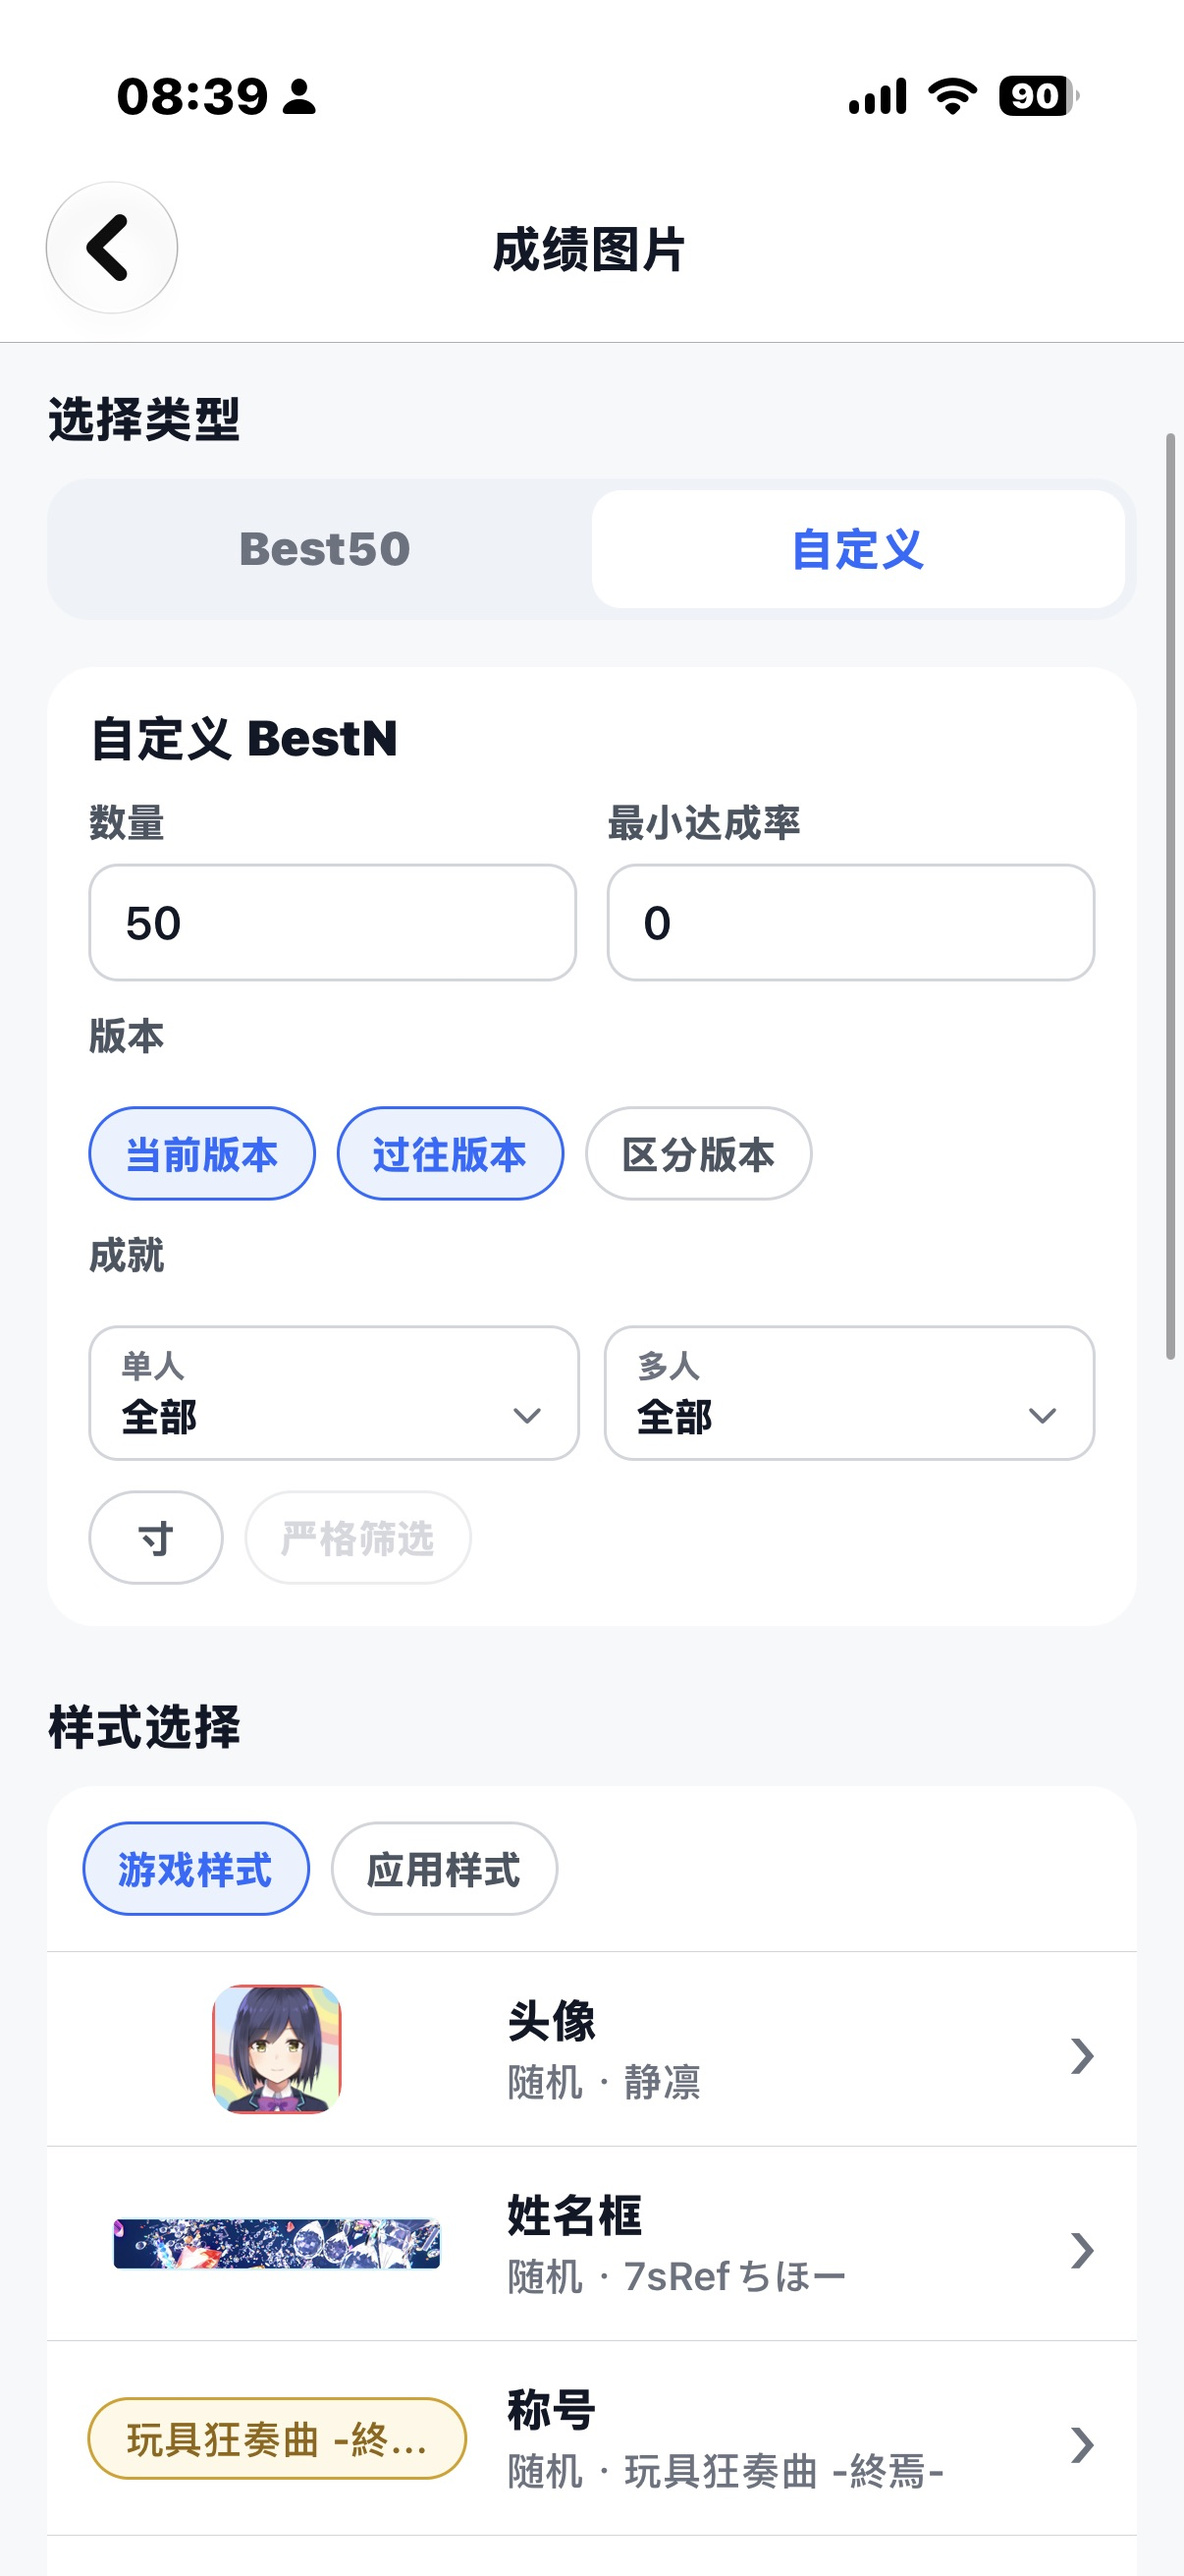
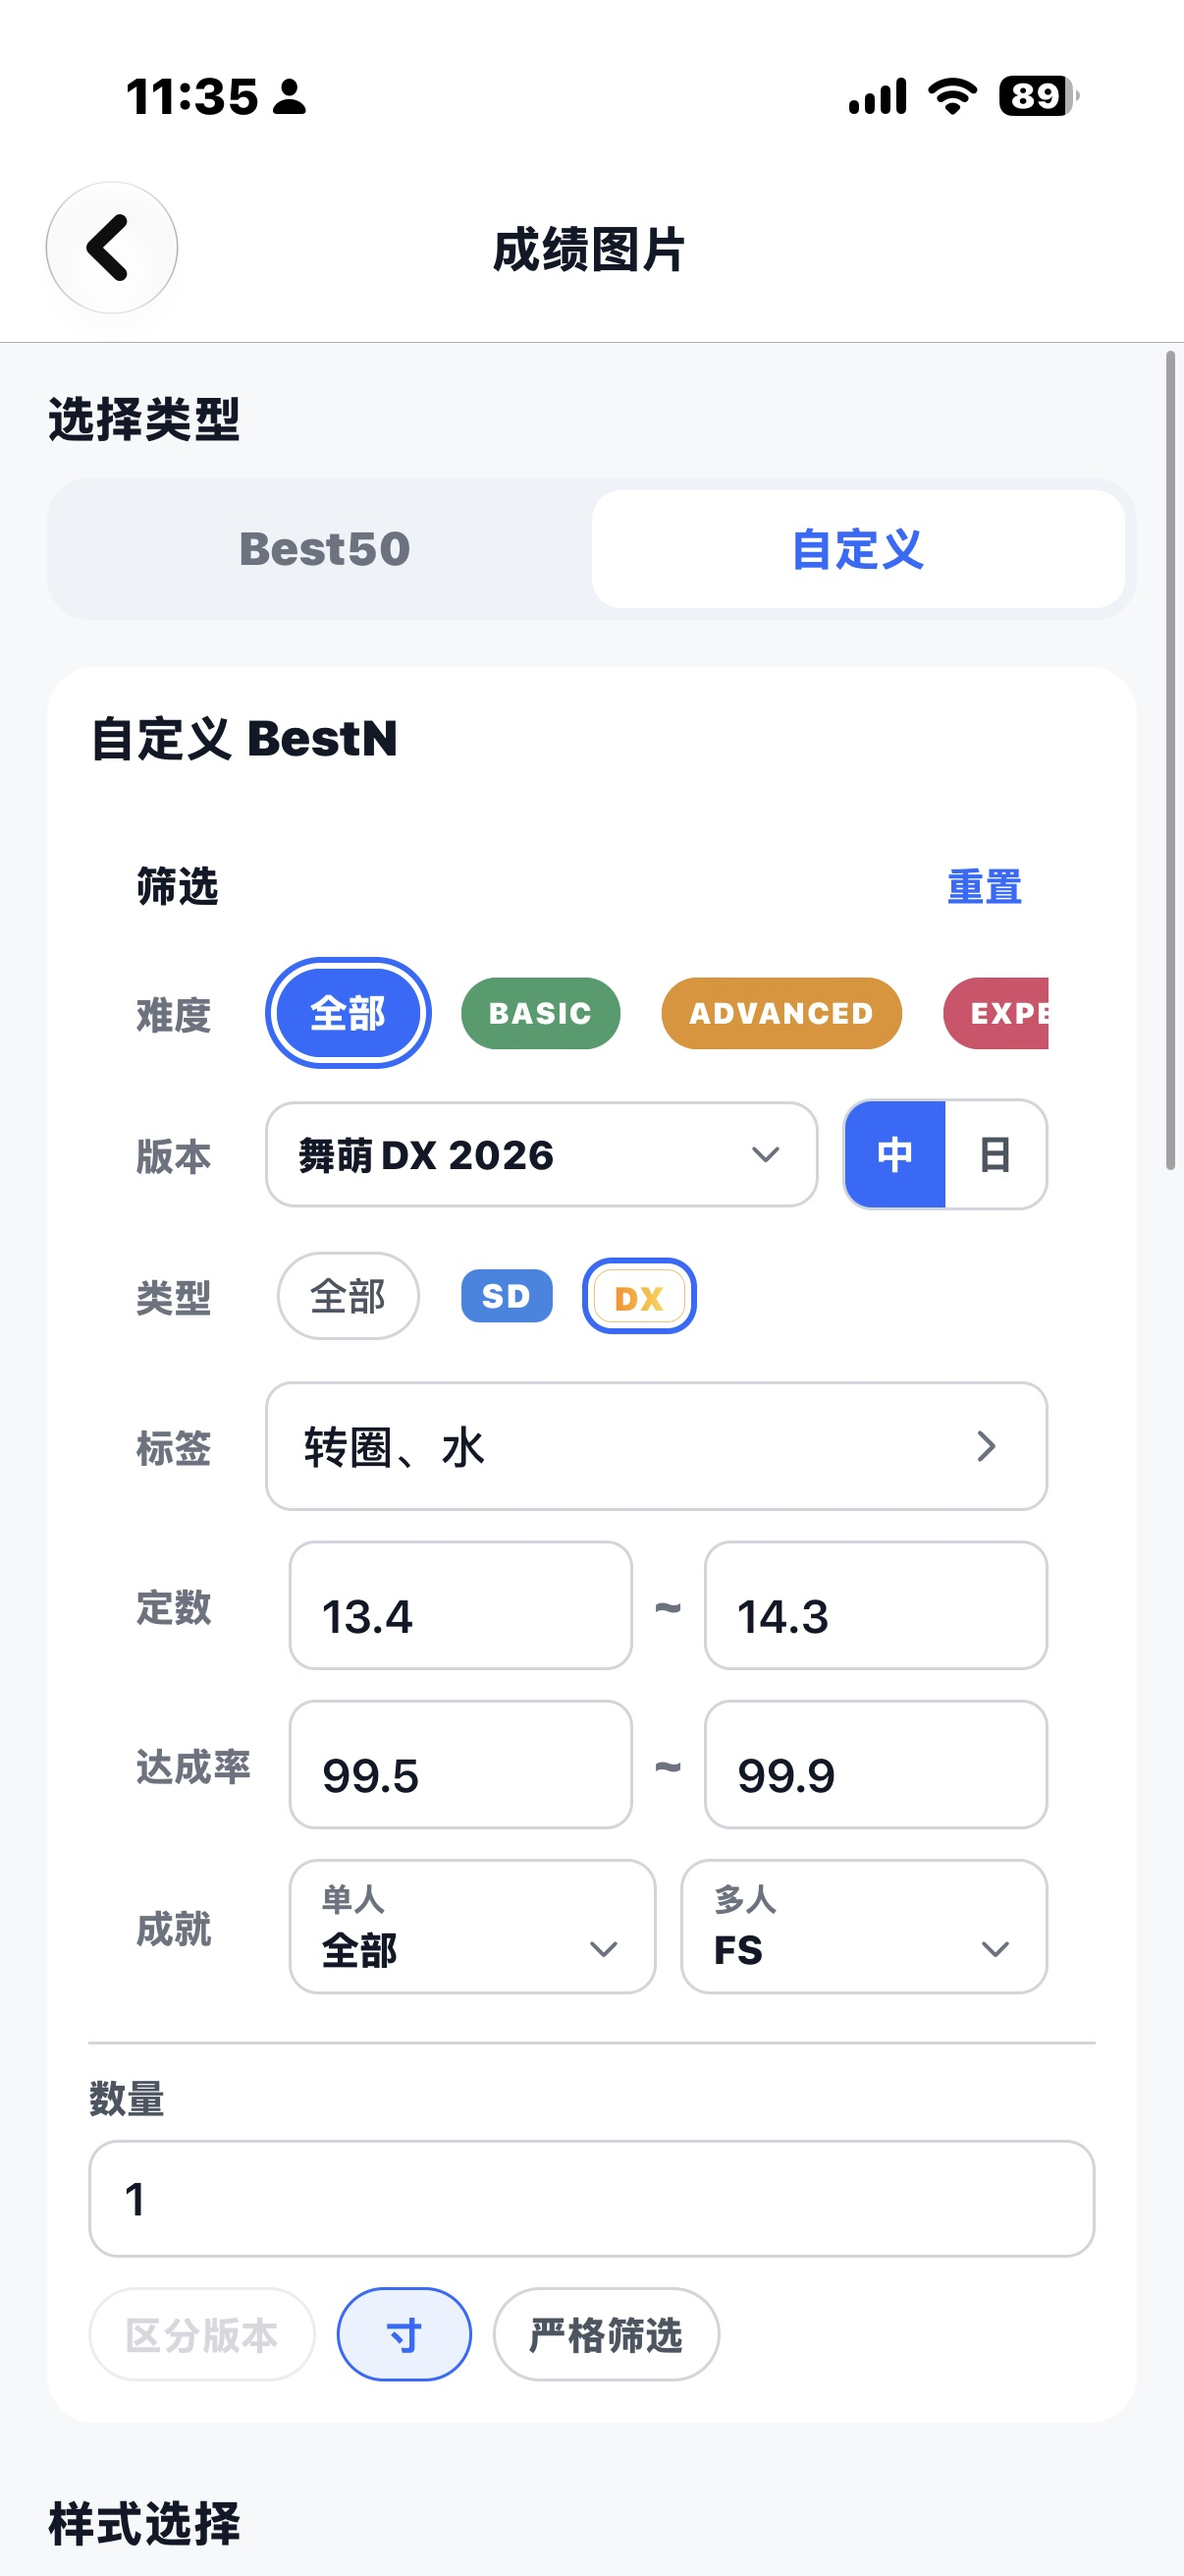
修改了README

diff --git a/README.md b/README.md
@@ -14,24 +14,41 @@
 rRanker 是一个聚合了多家音乐游戏数据的数据管理应用，提供基本的玩家数据查询与其他便利功能。目前已经支持了以下游戏：
 
 - 舞萌DX [[网站]](https://wc.wahlap.net/maidx/play/)
+- 中二节奏 [[网站]](https://wc.wahlap.net/chunithm/play/)
 - Phigros [[Apple Store]](https://apps.apple.com/cn/app/phigros/id1454809109) [[TapTap]](https://www.taptap.cn/app/165287?os=android) [[Google Play]](https://play.google.com/store/apps/details?id=com.PigeonGames.Phigros)
+- 喵斯快跑 [[网站]](https://musedash.peropero.net/)
+- 冰与火之舞 [[Steam]](https://store.steampowered.com/app/977950/_A_Dance_of_Fire_and_Ice/)
 
 ## 一些图片
 
-### 舞萌DX
-|总览|成绩|筛选|牌子|歌曲详情|导出图片|
+### 舞萌DX Maimai DX
+|总览|牌子|歌曲详情|谱面确认|导出图片|门曲|
 |--|--|--|--|--|--|
-|<img src="assets/images/app\舞萌DX\总览页.JPG" alt="舞萌DX总览页" width="100">|<img src="assets/images/app\舞萌DX\成绩页.JPG" alt="舞萌DX成绩页" width="100">|<img src="assets/images/app\舞萌DX\成绩页-筛选.JPG" alt="舞萌DX筛选页" width="100">|<img src="assets/images/app\舞萌DX\牌子进度页.JPG" alt="舞萌DX牌子页" width="100">|<img src="assets/images/app\舞萌DX\歌曲详情-难度卡片.JPG" alt="舞萌DX歌曲详情页" width="100">|<img src="assets/images/app\舞萌DX\导出页-样式.JPG" alt="舞萌DX导出图片" width="100">|
+|<img src="assets/images/app/舞萌DX/总览页.JPG" alt="舞萌DX总览页" width="100">|<img src="assets/images/app/舞萌DX/牌子进度页.JPG" alt="舞萌DX牌子页" width="100">|<img src="assets/images/app/舞萌DX/歌曲详情.JPG" alt="舞萌DX歌曲详情页" width="100">|<img src="assets/images/app/舞萌DX/谱面确认.JPG" alt="舞萌DX谱面确认" width="100">|<img src="assets/images/app/舞萌DX/导出页.JPG" alt="舞萌DX导出图片" width="100">|<img src="assets/images/app/舞萌DX/门曲工具.JPG" alt="舞萌DX曲工具" width="100">|
 
 ### Phigros
-|总览|成绩|推分计算|歌曲详情|
-|--|--|--|--|
-|<img src="assets/images/app\Phigros\总览页.JPG" alt="Phigros总览页" width="100">|<img src="assets/images/app\Phigros\成绩页-筛选.JPG" alt="Phigros成绩页" width="100">|<img src="assets/images/app\Phigros\推分计算.JPG" alt="Phigros推分计算页" width="100">|<img src="assets/images/app\Phigros\歌曲详情-难度卡片.JPG" alt="Phigros歌曲详情页" width="100">|
+|总览|成绩|推分计算|歌曲详情|实力分析|
+|--|--|--|--|--|
+|<img src="assets/images/app/Phigros/总览页.JPG" alt="Phigros总览页" width="100">|<img src="assets/images/app/Phigros/成绩页-筛选章节.JPG" alt="Phigros成绩页" width="100">|<img src="assets/images/app/Phigros/推分计算.JPG" alt="Phigros推分计算页" width="100">|<img src="assets/images/app/Phigros/歌曲详情.JPG" alt="Phigros歌曲详情页" width="100">|<img src="assets/images/app/Phigros/实力分析.JPG" alt="Phigros实力分析页" width="100">|
 
+### 中二节奏 CHUNITHM
+|总览|收藏品|歌曲详情|导出图片|
+|--|--|--|--|
+|<img src="assets/images/app/中二节奏/总览页.JPG" alt="中二节奏总览页" width="100">|<img src="assets/images/app/中二节奏/收藏品进度.JPG" alt="中二节奏收藏品进度页" width="100">|<img src="assets/images/app/中二节奏/歌曲详情.JPG" alt="中二节奏歌曲详情页" width="100">|<img src="assets/images/app/中二节奏/导出页.JPG" alt="中二节奏导出图片" width="100">|
+
+### 喵斯快跑 MuseDash
+|总览|成绩|歌曲详情|
+|--|--|--|
+|<img src="assets/images/app/喵斯/总览页.JPG" alt="喵斯总览页" width="100">|<img src="assets/images/app/喵斯/成绩页.JPG" alt="喵斯成绩页" width="100">|<img src="assets/images/app/喵斯/歌曲详情.JPG" alt="喵斯歌曲详情页" width="100">|
+
+### 冰与火之舞 A Dance of Ice and Fire
+|总览|
+|--|
+<img src="assets/images/app/adofai/总览页.JPG" alt="A Dance of Ice and Fire总览页" width="100">
 ### 其它
 |随机歌曲|曲库|主题|存储管理|机厅查找|
 |--|--|--|--|--|
-|<img src="assets/images/app\Phigros\随机歌曲.JPG" alt="随机歌曲" width="100">|<img src="assets/images/app\舞萌DX\曲库页.JPG" alt="曲库" width="100">|<img src="assets/images/app\深色模式与主题切换.JPG" alt="主题" width="100">|<img src="assets/images/app\存储管理.JPG" alt="存储管理" width="100">|<img src="assets/images/app\机厅查找.JPG" alt="机厅查找" width="100">|
+|<img src="assets/images/app/Phigros/随机歌曲.JPG" alt="随机歌曲" width="100">|<img src="assets/images/app/舞萌DX/曲库页.JPG" alt="曲库" width="100">|<img src="assets/images/app/深色模式与主题切换.JPG" alt="主题" width="100">|<img src="assets/images/app/存储管理.JPG" alt="存储管理" width="100">|<img src="assets/images/app/机厅查找.JPG" alt="机厅查找" width="100">|
 
 ## 主要功能
 
